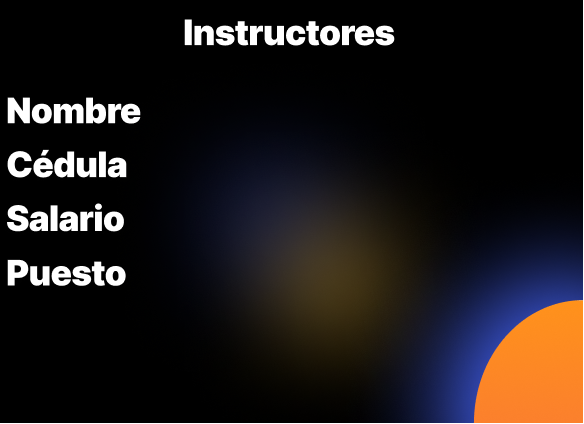
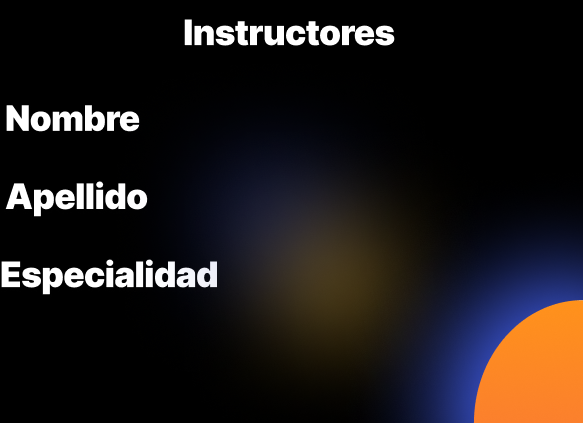
Cambios visuales Reg.Instructores y Reg.Usuarios

diff --git a/ProyectoFinal/src/main/java/com/mycompany/proyectofinal/PanelInstructorEmpleado.java b/ProyectoFinal/src/main/java/com/mycompany/proyectofinal/PanelInstructorEmpleado.java
@@ -13,11 +13,12 @@ public class PanelInstructorEmpleado extends javax.swing.JPanel {
     // <editor-fold defaultstate="collapsed" desc="Generated Code">//GEN-BEGIN:initComponents
     private void initComponents() {
 
-        BotonRegistrar = new javax.swing.JButton();
-        CampoPuesto = new javax.swing.JTextField();
-        CampoNombreInstructor = new javax.swing.JTextField();
-        CampoSalario = new javax.swing.JTextField();
-        CampoCedula = new javax.swing.JTextField();
+        botonEliminar = new javax.swing.JButton();
+        Actualizar = new javax.swing.JButton();
+        botonRegistrar = new javax.swing.JButton();
+        campoEspecialidad = new javax.swing.JTextField();
+        campoNombre = new javax.swing.JTextField();
+        campoApellido = new javax.swing.JTextField();
         FondoRegistroUsuarios = new javax.swing.JLabel();
         TablaInstructores = new javax.swing.JScrollPane();
         Instructores = new javax.swing.JTable();
@@ -27,20 +28,41 @@ public class PanelInstructorEmpleado extends javax.swing.JPanel {
         setPreferredSize(new java.awt.Dimension(990, 460));
         setLayout(new org.netbeans.lib.awtextra.AbsoluteLayout());
 
-        BotonRegistrar.setBackground(new java.awt.Color(246, 104, 68));
-        BotonRegistrar.setFont(new java.awt.Font("Eras Demi ITC", 0, 18)); // NOI18N
-        BotonRegistrar.setForeground(new java.awt.Color(255, 255, 255));
-        BotonRegistrar.setText("Registrar");
-        BotonRegistrar.addActionListener(new java.awt.event.ActionListener() {
+        botonEliminar.setBackground(new java.awt.Color(246, 104, 68));
+        botonEliminar.setFont(new java.awt.Font("Eras Demi ITC", 0, 18)); // NOI18N
+        botonEliminar.setForeground(new java.awt.Color(255, 255, 255));
+        botonEliminar.setText("Eliminar");
+        botonEliminar.addActionListener(new java.awt.event.ActionListener() {
             public void actionPerformed(java.awt.event.ActionEvent evt) {
-                BotonRegistrarActionPerformed(evt);
+                botonEliminarActionPerformed(evt);
             }
         });
-        add(BotonRegistrar, new org.netbeans.lib.awtextra.AbsoluteConstraints(700, 380, 140, 50));
-        add(CampoPuesto, new org.netbeans.lib.awtextra.AbsoluteConstraints(620, 280, 320, 30));
-        add(CampoNombreInstructor, new org.netbeans.lib.awtextra.AbsoluteConstraints(620, 120, 320, 30));
-        add(CampoSalario, new org.netbeans.lib.awtextra.AbsoluteConstraints(620, 220, 320, 30));
-        add(CampoCedula, new org.netbeans.lib.awtextra.AbsoluteConstraints(620, 170, 320, 30));
+        add(botonEliminar, new org.netbeans.lib.awtextra.AbsoluteConstraints(420, 370, 140, 50));
+
+        Actualizar.setBackground(new java.awt.Color(246, 104, 68));
+        Actualizar.setFont(new java.awt.Font("Eras Demi ITC", 0, 18)); // NOI18N
+        Actualizar.setForeground(new java.awt.Color(255, 255, 255));
+        Actualizar.setText("Registrar");
+        Actualizar.addActionListener(new java.awt.event.ActionListener() {
+            public void actionPerformed(java.awt.event.ActionEvent evt) {
+                ActualizarActionPerformed(evt);
+            }
+        });
+        add(Actualizar, new org.netbeans.lib.awtextra.AbsoluteConstraints(570, 370, 140, 50));
+
+        botonRegistrar.setBackground(new java.awt.Color(246, 104, 68));
+        botonRegistrar.setFont(new java.awt.Font("Eras Demi ITC", 0, 18)); // NOI18N
+        botonRegistrar.setForeground(new java.awt.Color(255, 255, 255));
+        botonRegistrar.setText("Registrar");
+        botonRegistrar.addActionListener(new java.awt.event.ActionListener() {
+            public void actionPerformed(java.awt.event.ActionEvent evt) {
+                botonRegistrarActionPerformed(evt);
+            }
+        });
+        add(botonRegistrar, new org.netbeans.lib.awtextra.AbsoluteConstraints(720, 370, 140, 50));
+        add(campoEspecialidad, new org.netbeans.lib.awtextra.AbsoluteConstraints(660, 280, 280, 30));
+        add(campoNombre, new org.netbeans.lib.awtextra.AbsoluteConstraints(620, 130, 320, 30));
+        add(campoApellido, new org.netbeans.lib.awtextra.AbsoluteConstraints(620, 200, 320, 30));
 
         FondoRegistroUsuarios.setForeground(new java.awt.Color(255, 255, 255));
         FondoRegistroUsuarios.setIcon(new javax.swing.ImageIcon(getClass().getResource("/com/mycompany/imagenes/Registro de Instructores.png"))); // NOI18N
@@ -65,20 +87,29 @@ public class PanelInstructorEmpleado extends javax.swing.JPanel {
         add(Fondo, new org.netbeans.lib.awtextra.AbsoluteConstraints(0, 0, 990, 460));
     }// </editor-fold>//GEN-END:initComponents
 
-    private void BotonRegistrarActionPerformed(java.awt.event.ActionEvent evt) {//GEN-FIRST:event_BotonRegistrarActionPerformed
+    private void botonRegistrarActionPerformed(java.awt.event.ActionEvent evt) {//GEN-FIRST:event_botonRegistrarActionPerformed
         // TODO add your handling code here:
-    }//GEN-LAST:event_BotonRegistrarActionPerformed
+    }//GEN-LAST:event_botonRegistrarActionPerformed
+
+    private void ActualizarActionPerformed(java.awt.event.ActionEvent evt) {//GEN-FIRST:event_ActualizarActionPerformed
+        // TODO add your handling code here:
+    }//GEN-LAST:event_ActualizarActionPerformed
+
+    private void botonEliminarActionPerformed(java.awt.event.ActionEvent evt) {//GEN-FIRST:event_botonEliminarActionPerformed
+        // TODO add your handling code here:
+    }//GEN-LAST:event_botonEliminarActionPerformed
 
 
     // Variables declaration - do not modify//GEN-BEGIN:variables
-    private javax.swing.JButton BotonRegistrar;
-    private javax.swing.JTextField CampoCedula;
-    private javax.swing.JTextField CampoNombreInstructor;
-    private javax.swing.JTextField CampoPuesto;
-    private javax.swing.JTextField CampoSalario;
+    private javax.swing.JButton Actualizar;
     private javax.swing.JLabel Fondo;
     private javax.swing.JLabel FondoRegistroUsuarios;
     private javax.swing.JTable Instructores;
     private javax.swing.JScrollPane TablaInstructores;
+    private javax.swing.JButton botonEliminar;
+    private javax.swing.JButton botonRegistrar;
+    private javax.swing.JTextField campoApellido;
+    private javax.swing.JTextField campoEspecialidad;
+    private javax.swing.JTextField campoNombre;
     // End of variables declaration//GEN-END:variables
 }

diff --git a/ProyectoFinal/src/main/java/com/mycompany/proyectofinal/PanelUsuarioEmpleado.java b/ProyectoFinal/src/main/java/com/mycompany/proyectofinal/PanelUsuarioEmpleado.java
@@ -26,12 +26,10 @@ public class PanelUsuarioEmpleado extends javax.swing.JPanel {
         BotonActualizarUsuario = new javax.swing.JButton();
         BotonBorrarUsuario = new javax.swing.JButton();
         BotonRegistarUsuario = new javax.swing.JButton();
-        CampoCodigo = new javax.swing.JTextField();
-        CampoNombre = new javax.swing.JTextField();
-        CampoApellidos = new javax.swing.JTextField();
+        campoNombre = new javax.swing.JTextField();
+        campoContraseña = new javax.swing.JTextField();
         CampoBuscarUsuario = new javax.swing.JTextField();
-        CampoFecha = new javax.swing.JTextField();
-        CampoCedula1 = new javax.swing.JTextField();
+        campoVerContraseña = new javax.swing.JTextField();
         FondoRegistroUsuarios = new javax.swing.JLabel();
         TablaUsuarios = new javax.swing.JScrollPane();
         jTable1 = new javax.swing.JTable();
@@ -43,7 +41,7 @@ public class PanelUsuarioEmpleado extends javax.swing.JPanel {
         setLayout(new org.netbeans.lib.awtextra.AbsoluteLayout());
 
         campoConstEmpleado.setModel(new javax.swing.DefaultComboBoxModel<>(new String[] { "Empleado" }));
-        add(campoConstEmpleado, new org.netbeans.lib.awtextra.AbsoluteConstraints(630, 70, -1, -1));
+        add(campoConstEmpleado, new org.netbeans.lib.awtextra.AbsoluteConstraints(650, 340, -1, -1));
 
         BotonBuscarUsuario.setBackground(new java.awt.Color(246, 104, 68));
         BotonBuscarUsuario.setFont(new java.awt.Font("Eras Demi ITC", 0, 18)); // NOI18N
@@ -88,16 +86,14 @@ public class PanelUsuarioEmpleado extends javax.swing.JPanel {
             }
         });
         add(BotonRegistarUsuario, new org.netbeans.lib.awtextra.AbsoluteConstraints(740, 380, 140, 50));
-        add(CampoCodigo, new org.netbeans.lib.awtextra.AbsoluteConstraints(620, 110, 320, 30));
-        add(CampoNombre, new org.netbeans.lib.awtextra.AbsoluteConstraints(620, 160, 320, 30));
-        add(CampoApellidos, new org.netbeans.lib.awtextra.AbsoluteConstraints(620, 220, 320, 30));
+        add(campoNombre, new org.netbeans.lib.awtextra.AbsoluteConstraints(640, 130, 320, 30));
+        add(campoContraseña, new org.netbeans.lib.awtextra.AbsoluteConstraints(640, 200, 320, 30));
         add(CampoBuscarUsuario, new org.netbeans.lib.awtextra.AbsoluteConstraints(130, 410, 70, 20));
-        add(CampoFecha, new org.netbeans.lib.awtextra.AbsoluteConstraints(620, 330, 320, 30));
-        add(CampoCedula1, new org.netbeans.lib.awtextra.AbsoluteConstraints(620, 270, 320, 30));
+        add(campoVerContraseña, new org.netbeans.lib.awtextra.AbsoluteConstraints(640, 260, 320, 30));
 
         FondoRegistroUsuarios.setForeground(new java.awt.Color(255, 255, 255));
-        FondoRegistroUsuarios.setIcon(new javax.swing.ImageIcon(getClass().getResource("/com/mycompany/imagenes/Registro de Usuarios.png"))); // NOI18N
-        add(FondoRegistroUsuarios, new org.netbeans.lib.awtextra.AbsoluteConstraints(430, 20, -1, -1));
+        FondoRegistroUsuarios.setIcon(new javax.swing.ImageIcon(getClass().getResource("/com/mycompany/imagenes/Registro de Usuarios Internos.png"))); // NOI18N
+        add(FondoRegistroUsuarios, new org.netbeans.lib.awtextra.AbsoluteConstraints(430, 20, 550, 420));
 
         jTable1.setModel(new javax.swing.table.DefaultTableModel(
             new Object [][] {
@@ -143,17 +139,15 @@ public class PanelUsuarioEmpleado extends javax.swing.JPanel {
     private javax.swing.JButton BotonBorrarUsuario;
     private javax.swing.JButton BotonBuscarUsuario;
     private javax.swing.JButton BotonRegistarUsuario;
-    private javax.swing.JTextField CampoApellidos;
     private javax.swing.JTextField CampoBuscarUsuario;
-    private javax.swing.JTextField CampoCedula1;
-    private javax.swing.JTextField CampoCodigo;
-    private javax.swing.JTextField CampoFecha;
-    private javax.swing.JTextField CampoNombre;
     private javax.swing.JLabel Codigo;
     private javax.swing.JLabel Fondo;
     private javax.swing.JLabel FondoRegistroUsuarios;
     private javax.swing.JScrollPane TablaUsuarios;
     private javax.swing.JComboBox<String> campoConstEmpleado;
+    private javax.swing.JTextField campoContraseña;
+    private javax.swing.JTextField campoNombre;
+    private javax.swing.JTextField campoVerContraseña;
     private javax.swing.JTable jTable1;
     // End of variables declaration//GEN-END:variables
 }

diff --git a/ProyectoFinal/src/main/java/com/mycompany/proyectofinal/CreacionUsuarioCliente.java b/ProyectoFinal/src/main/java/com/mycompany/proyectofinal/CreacionUsuarioCliente.java
@@ -18,7 +18,13 @@ public class CreacionUsuarioCliente extends javax.swing.JFrame {
     public CreacionUsuarioCliente() {
         initComponents();
     }
-
+    private boolean volver;
+    
+    public void RegresarInicio(){
+        Inicio ventanaInicio = new Inicio();
+        ventanaInicio.setVisible(true);
+        this.dispose(); 
+    }
     /**
      * This method is called from within the constructor to initialize the form.
      * WARNING: Do NOT modify this code. The content of this method is always
@@ -142,8 +148,7 @@ public class CreacionUsuarioCliente extends javax.swing.JFrame {
         // TODO add your handling code here:
         Funciones funcion = new Funciones();
         funcion.guardarDatos(textoNombre, textoContraseña, textoVerificacionContraseña, textoCliente);
-
-
+        RegresarInicio();
     }//GEN-LAST:event_enviarNuevoUsuarioActionPerformed
 
     private void enviarNuevoUsuarioMouseClicked(java.awt.event.MouseEvent evt) {//GEN-FIRST:event_enviarNuevoUsuarioMouseClicked
@@ -163,9 +168,7 @@ public class CreacionUsuarioCliente extends javax.swing.JFrame {
     private void IngresarMouseClicked(java.awt.event.MouseEvent evt) {//GEN-FIRST:event_IngresarMouseClicked
         // TODO add your handling code here:
         //Volver al inicio sin crear usuario
-        Inicio ventanaInicio = new Inicio();
-        ventanaInicio.setVisible(true);
-        this.dispose();
+        RegresarInicio();
     }//GEN-LAST:event_IngresarMouseClicked
 
     private void IngresarMouseExited(java.awt.event.MouseEvent evt) {//GEN-FIRST:event_IngresarMouseExited

diff --git a/ProyectoFinal/src/main/java/com/mycompany/proyectofinal/Funciones.java b/ProyectoFinal/src/main/java/com/mycompany/proyectofinal/Funciones.java
@@ -72,7 +72,7 @@ public class Funciones {
         try {
             usuario = textField1.getText();
             contraseña = textField2.getText();
-            //perfil = campoCliente.getText();
+            //rol = campoCliente.getText();
 
             if (campos(textField1, textField2, textField3)) {
                 throw new Exception();
